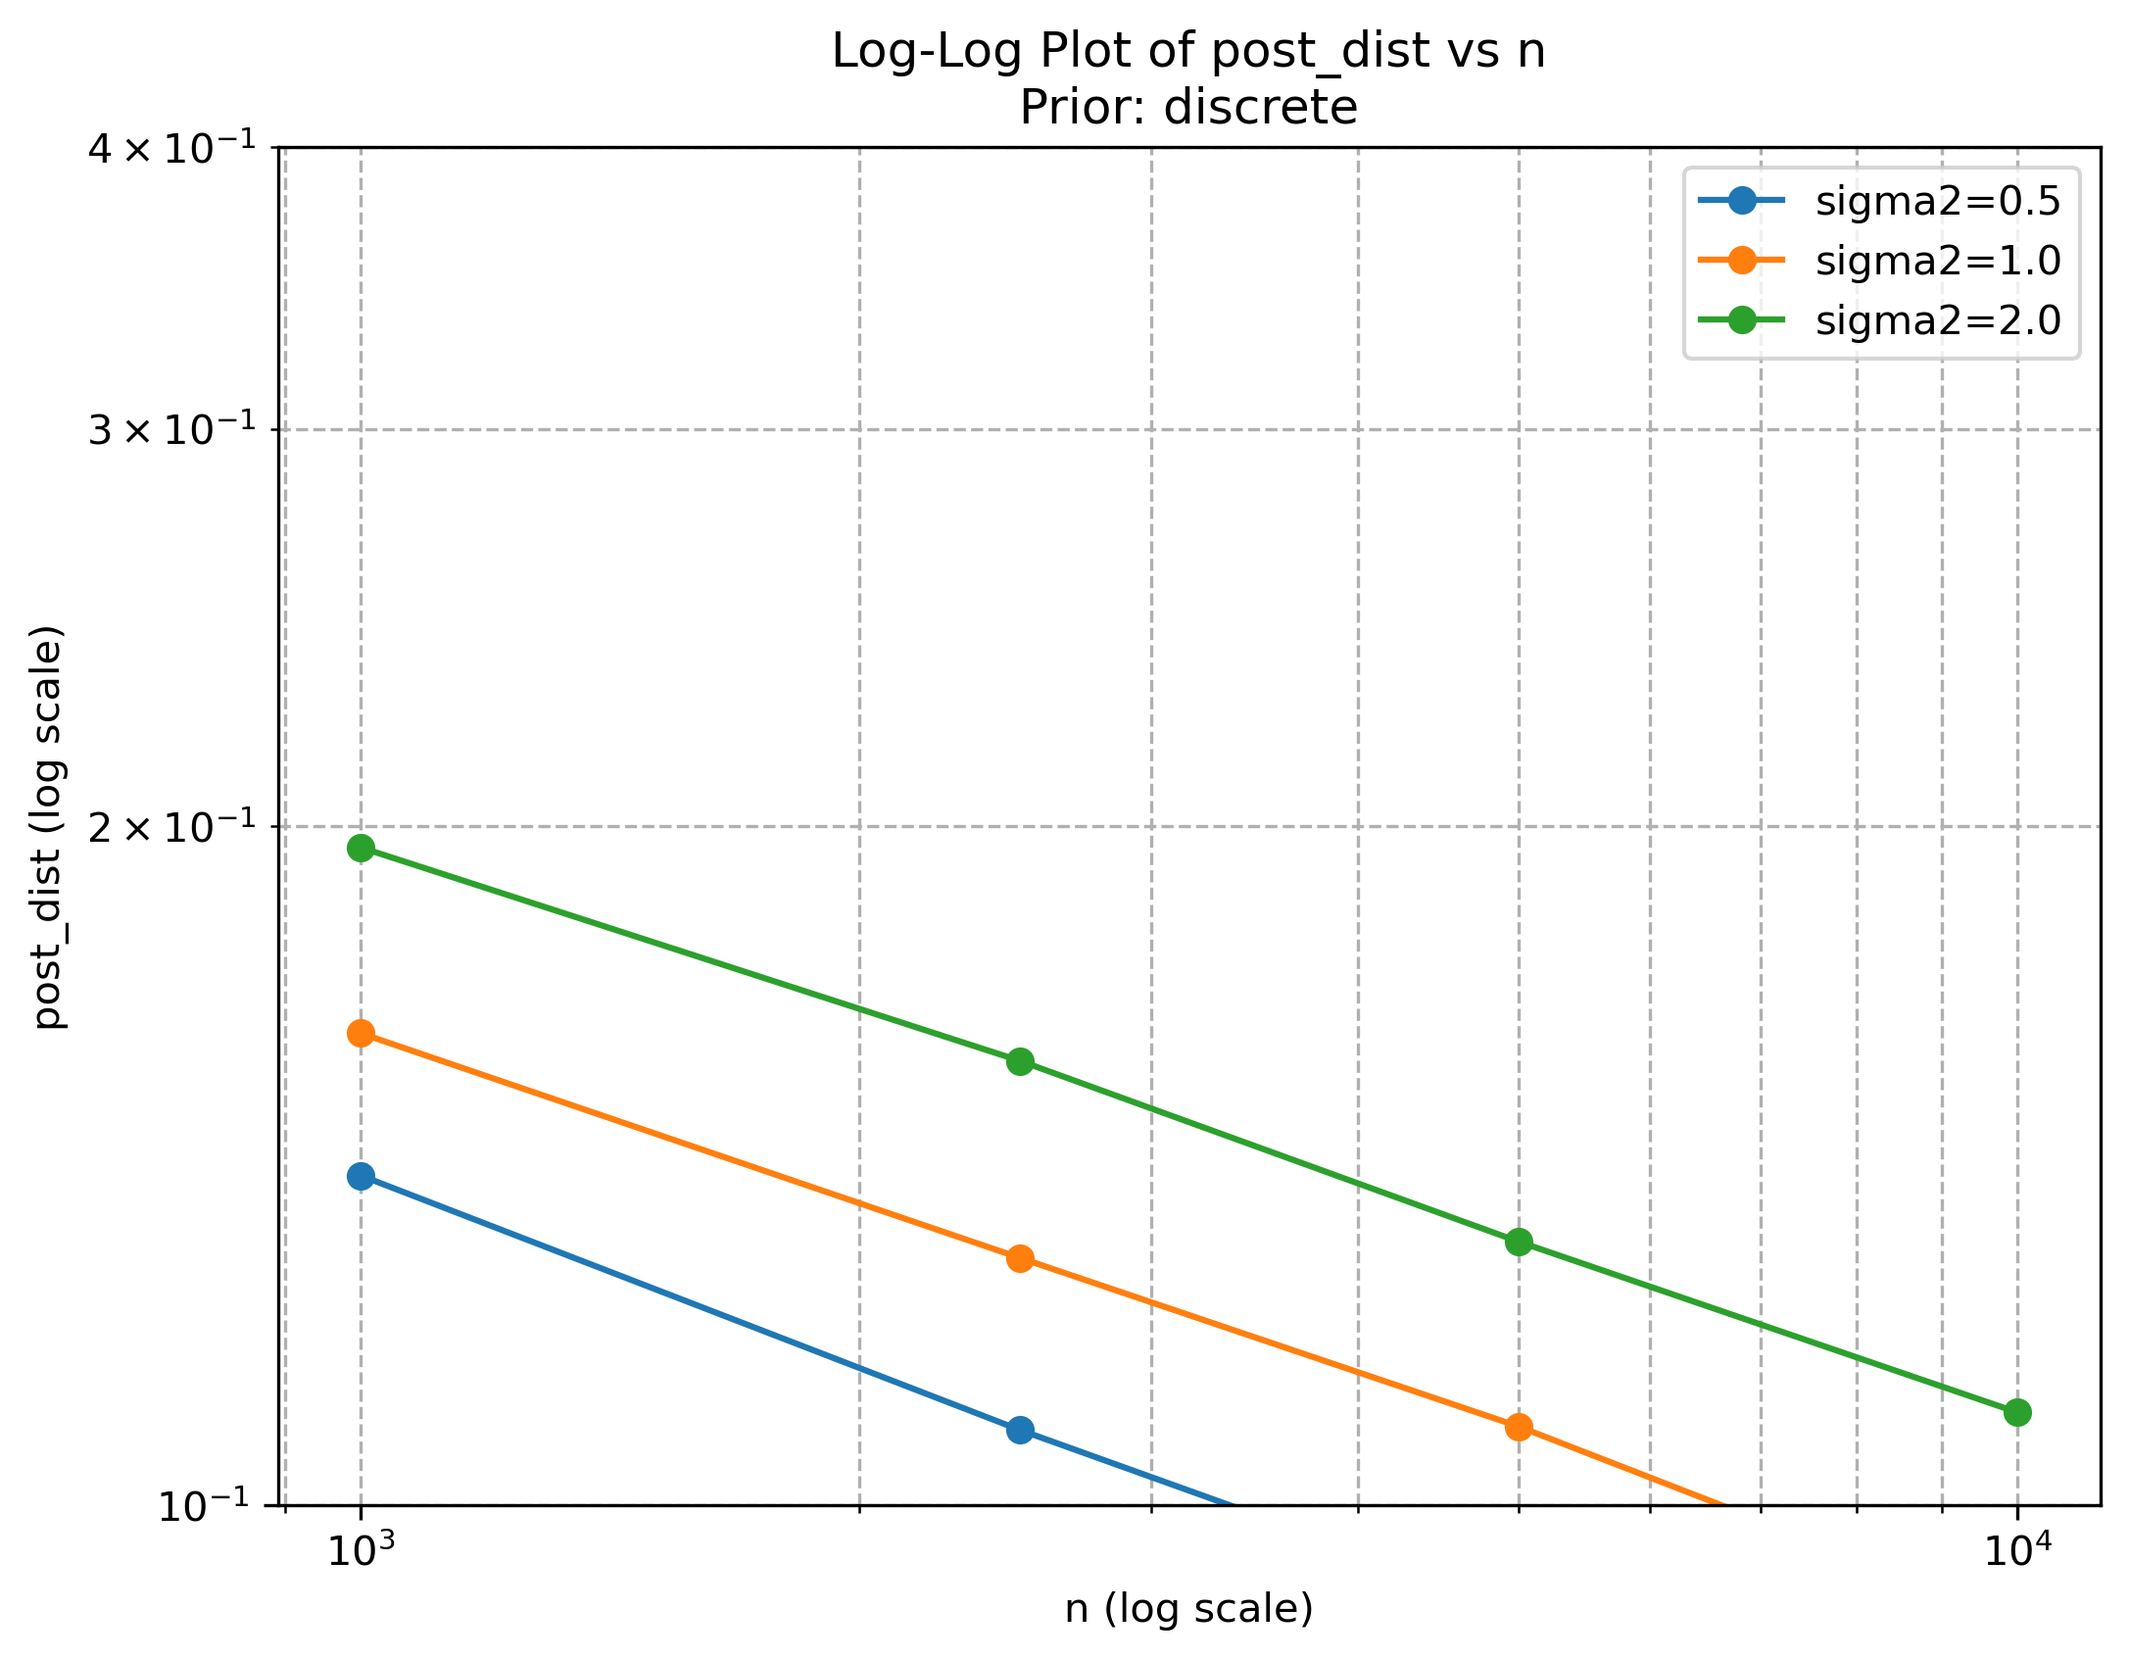
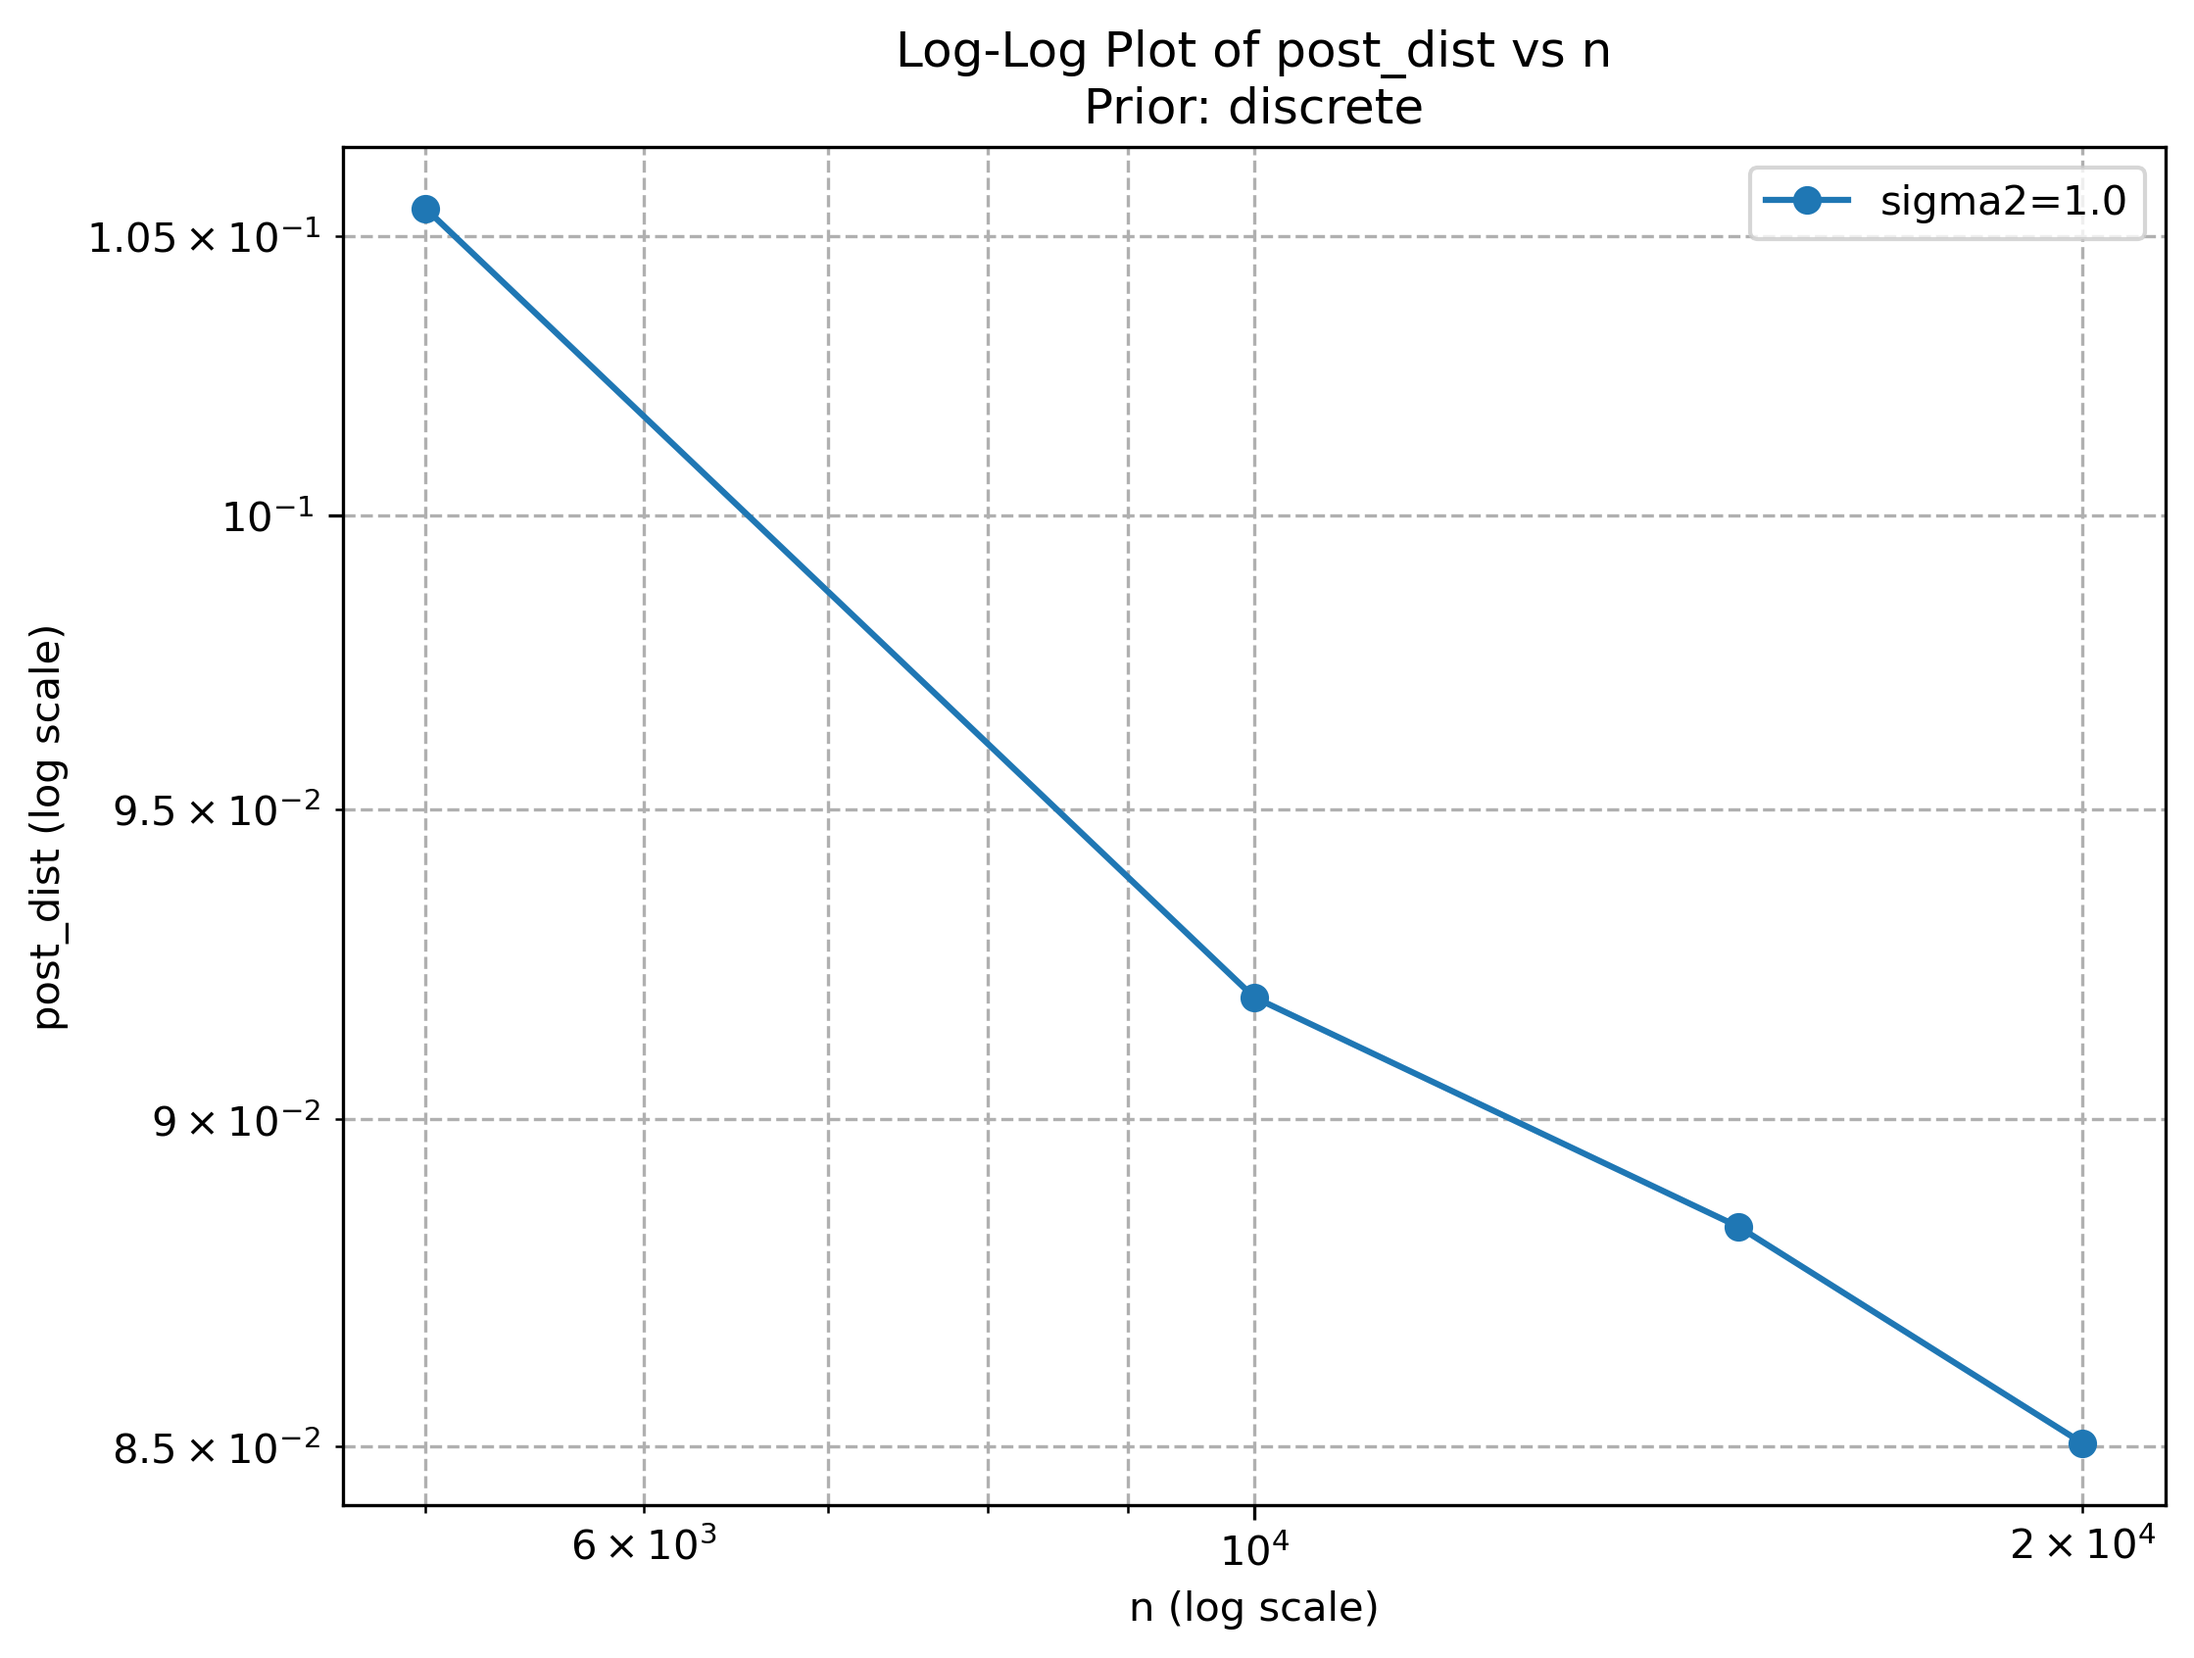
add figures and summary stats

diff --git a/src/combine_and_analyze.py b/src/combine_and_analyze.py
@@ -113,14 +113,16 @@ def make_log_log_plots(input_dir, output_dir):
             'sigma2': sigma2,
             'prior_dist': metrics['prior_dist'],
             'post_dist': metrics['post_dist'],
-            'evcb_distance': metrics['evcb_distance']
+            'evcb_distance': metrics['evcb_distance'],
+            'denoise_regret': metrics['denoise_regret'],
+            'denoise_diff': metrics['denoise_diff']
         }
         records.append(record)
     df = pd.DataFrame(records)
     os.makedirs(output_dir, exist_ok=True)
 
     for prior_type, prior_group in df.groupby('prior_type'):
-        for distance_type in ['prior_dist', 'post_dist', 'evcb_distance']:
+        for distance_type in ['prior_dist', 'post_dist', 'evcb_distance', 'denoise_regret', 'denoise_diff']:
             plt.figure(figsize=(8, 6))
             for sigma2, sigma_group in prior_group.groupby('sigma2'):
                 mean_distances = sigma_group.groupby('n')[distance_type].mean().reset_index()
@@ -148,7 +150,7 @@ def make_log_log_plots(input_dir, output_dir):
     slope_records = []
     for prior_type, prior_group in df.groupby('prior_type'):
         for sigma2, sigma_group in prior_group.groupby('sigma2'):
-            for distance_type in ['prior_dist', 'post_dist', 'evcb_distance']:
+            for distance_type in ['prior_dist', 'post_dist', 'evcb_distance', 'denoise_regret', 'denoise_diff']:
                 mean_distances = sigma_group.groupby('n')[distance_type].mean().reset_index()
                 log_n = np.log(mean_distances['n'])
                 log_distance = np.log(mean_distances[distance_type])

diff --git a/src/one_sim.py b/src/one_sim.py
@@ -118,6 +118,7 @@ class OneSimulation:
     eb_weights, eb_prior, eb_means, eb_indices, eb_samples, evcb_means = estimates['eb']
     prior_dist = stats.energy_distance(o_prior.flatten(), eb_prior.flatten(), u_weights=None, v_weights=eb_weights.flatten()) / np.sqrt(2)
     denoise_regret = mse_regret(eb_means, self.Theta, ob_means)
+    denoise_diff = mse(eb_means, ob_means)
     post_dist = stats.energy_distance(ob_samples.flatten(), eb_samples.flatten()) / np.sqrt(2)
     # each_post_avg_dist = np.mean([stats.energy_distance(ob_each_samples[i].flatten(), eb_each_samples[i].flatten()) / np.sqrt(2) for i in range(self.n)])
     evcb_distance = stats.energy_distance(ob_samples.flatten(), evcb_means.flatten()) / np.sqrt(2)
@@ -125,6 +126,7 @@ class OneSimulation:
     return {
         'prior_dist': prior_dist,
         'denoise_regret': denoise_regret,
+        'denoise_diff': denoise_diff,
         'post_dist': post_dist,
         'evcb_distance': evcb_distance
         # 'each_post_avg_dist': each_post_avg_dist
